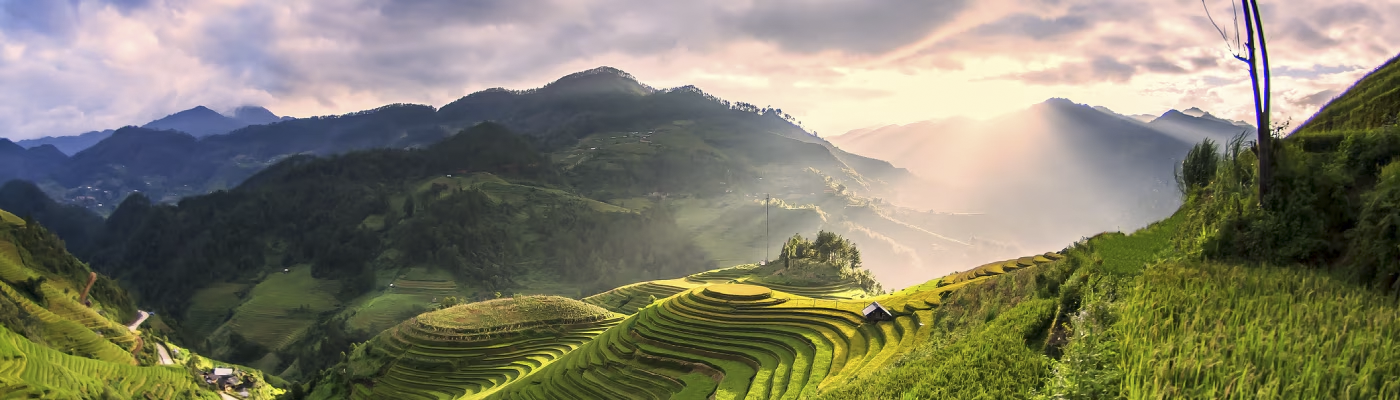
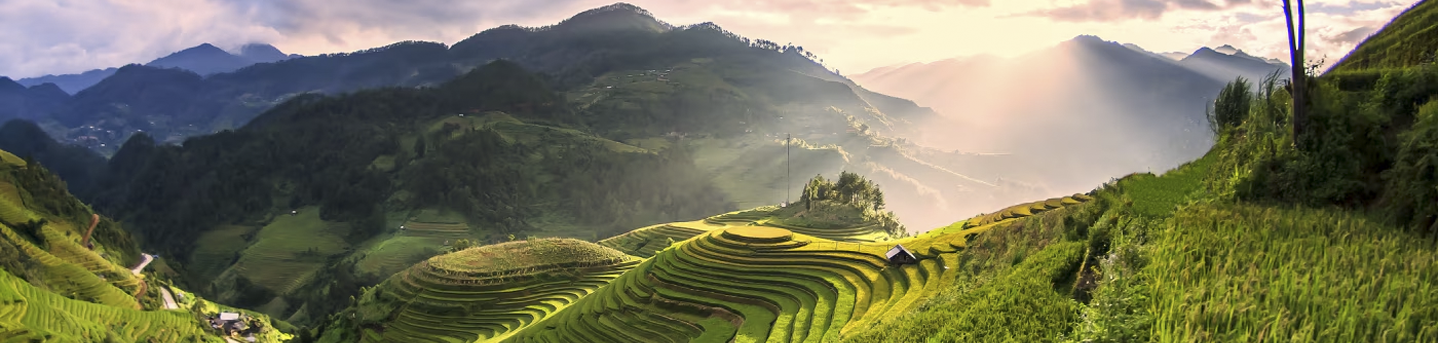
ekleme: arka plan resmi tekrar eklendi.

diff --git a/src/Main.java b/src/Main.java
@@ -61,17 +61,41 @@ public class Main {
         greetingLabel.setBounds((frameWidth - 300) / 2, (panelHeight - 30) / 2, 300, 30);
         topPanel.add(greetingLabel);
 
+        ImageIcon imageIcon = new ImageIcon("background.png");
+        JLabel imageLabel = new JLabel(imageIcon);
+        imageLabel.setSize(imageIcon.getIconWidth(), imageIcon.getIconHeight());
+
+        //Center Panel
         JPanel centerPanel = new JPanel();
         centerPanel.setBackground(new Color(255, 255, 255));
-        centerPanel.setPreferredSize(new Dimension(815, 185));
+        centerPanel.setPreferredSize(new Dimension(1151, 400));
+        centerPanel.add(imageLabel);
+        imageLabel.setLocation(0, 0);
+        centerPanel.revalidate();
+        centerPanel.repaint();
 
         JPanel container = new JPanel(new GridBagLayout());
         GridBagConstraints gbc = new GridBagConstraints();
-        gbc.anchor = GridBagConstraints.CENTER;
-        gbc.insets = new Insets(-55, 0, 55, 0);
-
+        gbc.anchor = GridBagConstraints.NORTH;
+        gbc.fill = GridBagConstraints.BOTH;
+        gbc.insets = new Insets(0, 0, 0, 0);
         container.add(centerPanel, gbc);
         frame.add(container, BorderLayout.CENTER);
+
+
+
+        //Bottom Panel
+        JPanel bottomPanel = new JPanel();
+        bottomPanel.setBackground(new Color(255, 255, 255));
+        bottomPanel.setPreferredSize(new Dimension(815, 185));
+
+        JPanel containerb = new JPanel(new GridBagLayout());
+        GridBagConstraints gbcb = new GridBagConstraints();
+        gbcb.anchor = GridBagConstraints.SOUTH;
+        gbcb.insets = new Insets(0, 0, 214, 0);
+
+        containerb.add(bottomPanel, gbcb);
+        frame.add(containerb, BorderLayout.SOUTH);
 
         frame.setVisible(true);
 
